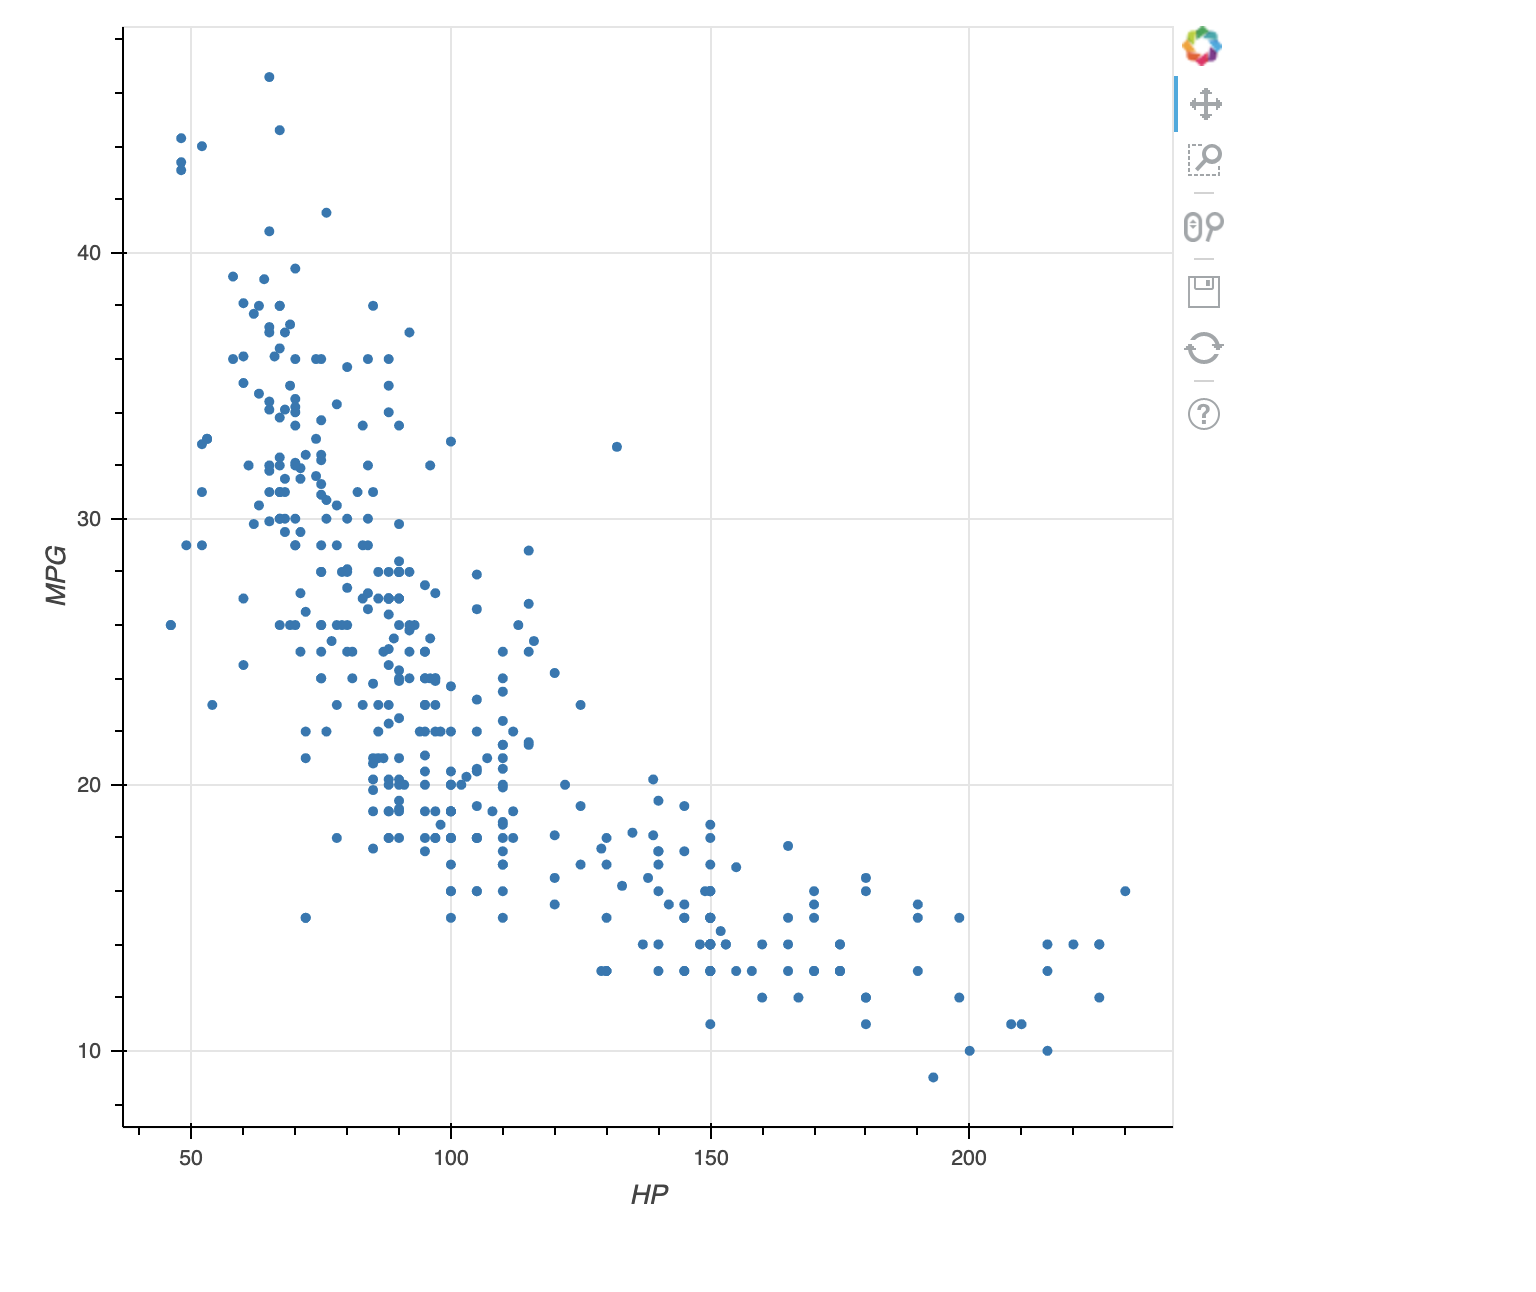
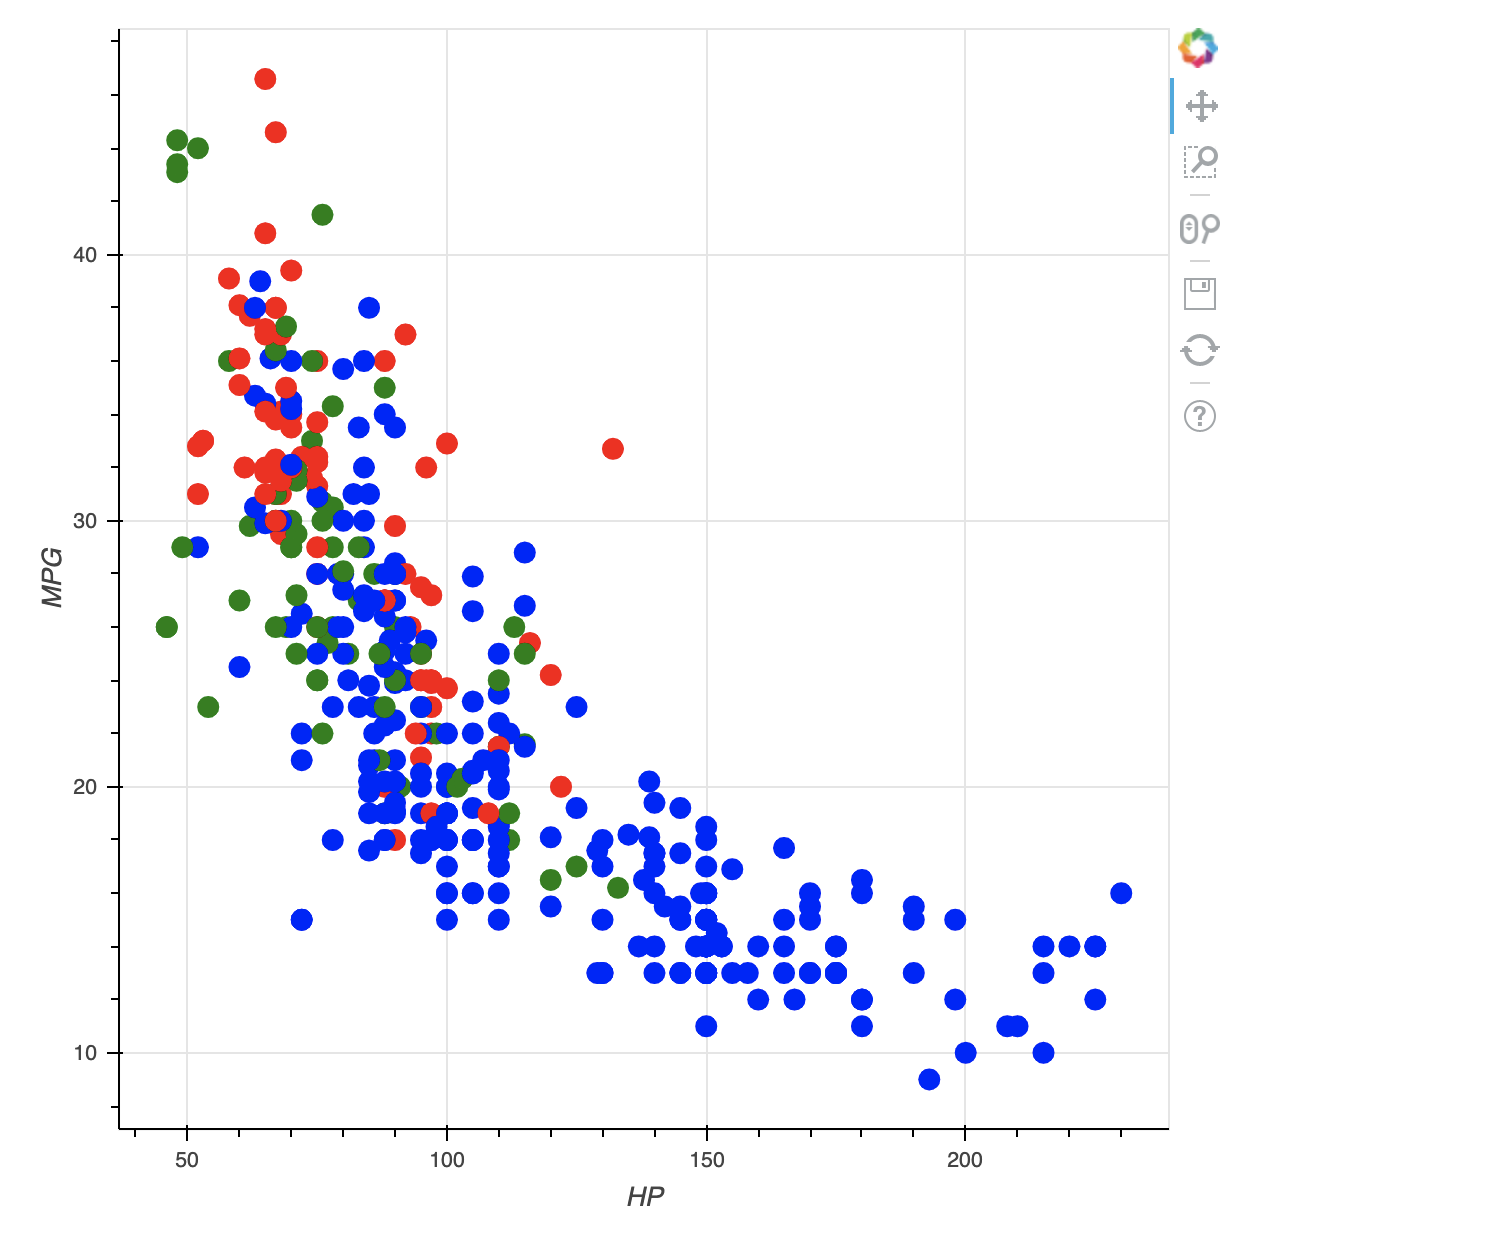
Bokeh7

diff --git a/_posts/2020-02-29-bookeh.md b/_posts/2020-02-29-bookeh.md
@@ -374,23 +374,24 @@ Your job is to plot miles-per-gallon (mpg) vs horsepower (hp) by passing Pandas 
 
 ```python
 	# Import pandas as pd
-
+	import pandas as pd
 
 	# Read in the CSV file: df
-	df = ____
+	df = pd.read_csv('auto.csv')
 
 	# Import figure from bokeh.plotting
-
+	from bokeh.plotting import figure
 
 	# Create the figure: p
-	p = ____(____='HP', ____='MPG')
+	p = figure(x_axis_label='HP', y_axis_label='MPG')
 
 	# Plot mpg vs hp by color
-
+	p.circle(df['hp'], df['mpg'],color=df['color'], size=10)
 
 	# Specify the name of the output file and show the result
 	output_file('auto-df.html')
 	show(p)
+	
 ```	
 
 ![bokeh7](/assets/img/bokeh7.png)
